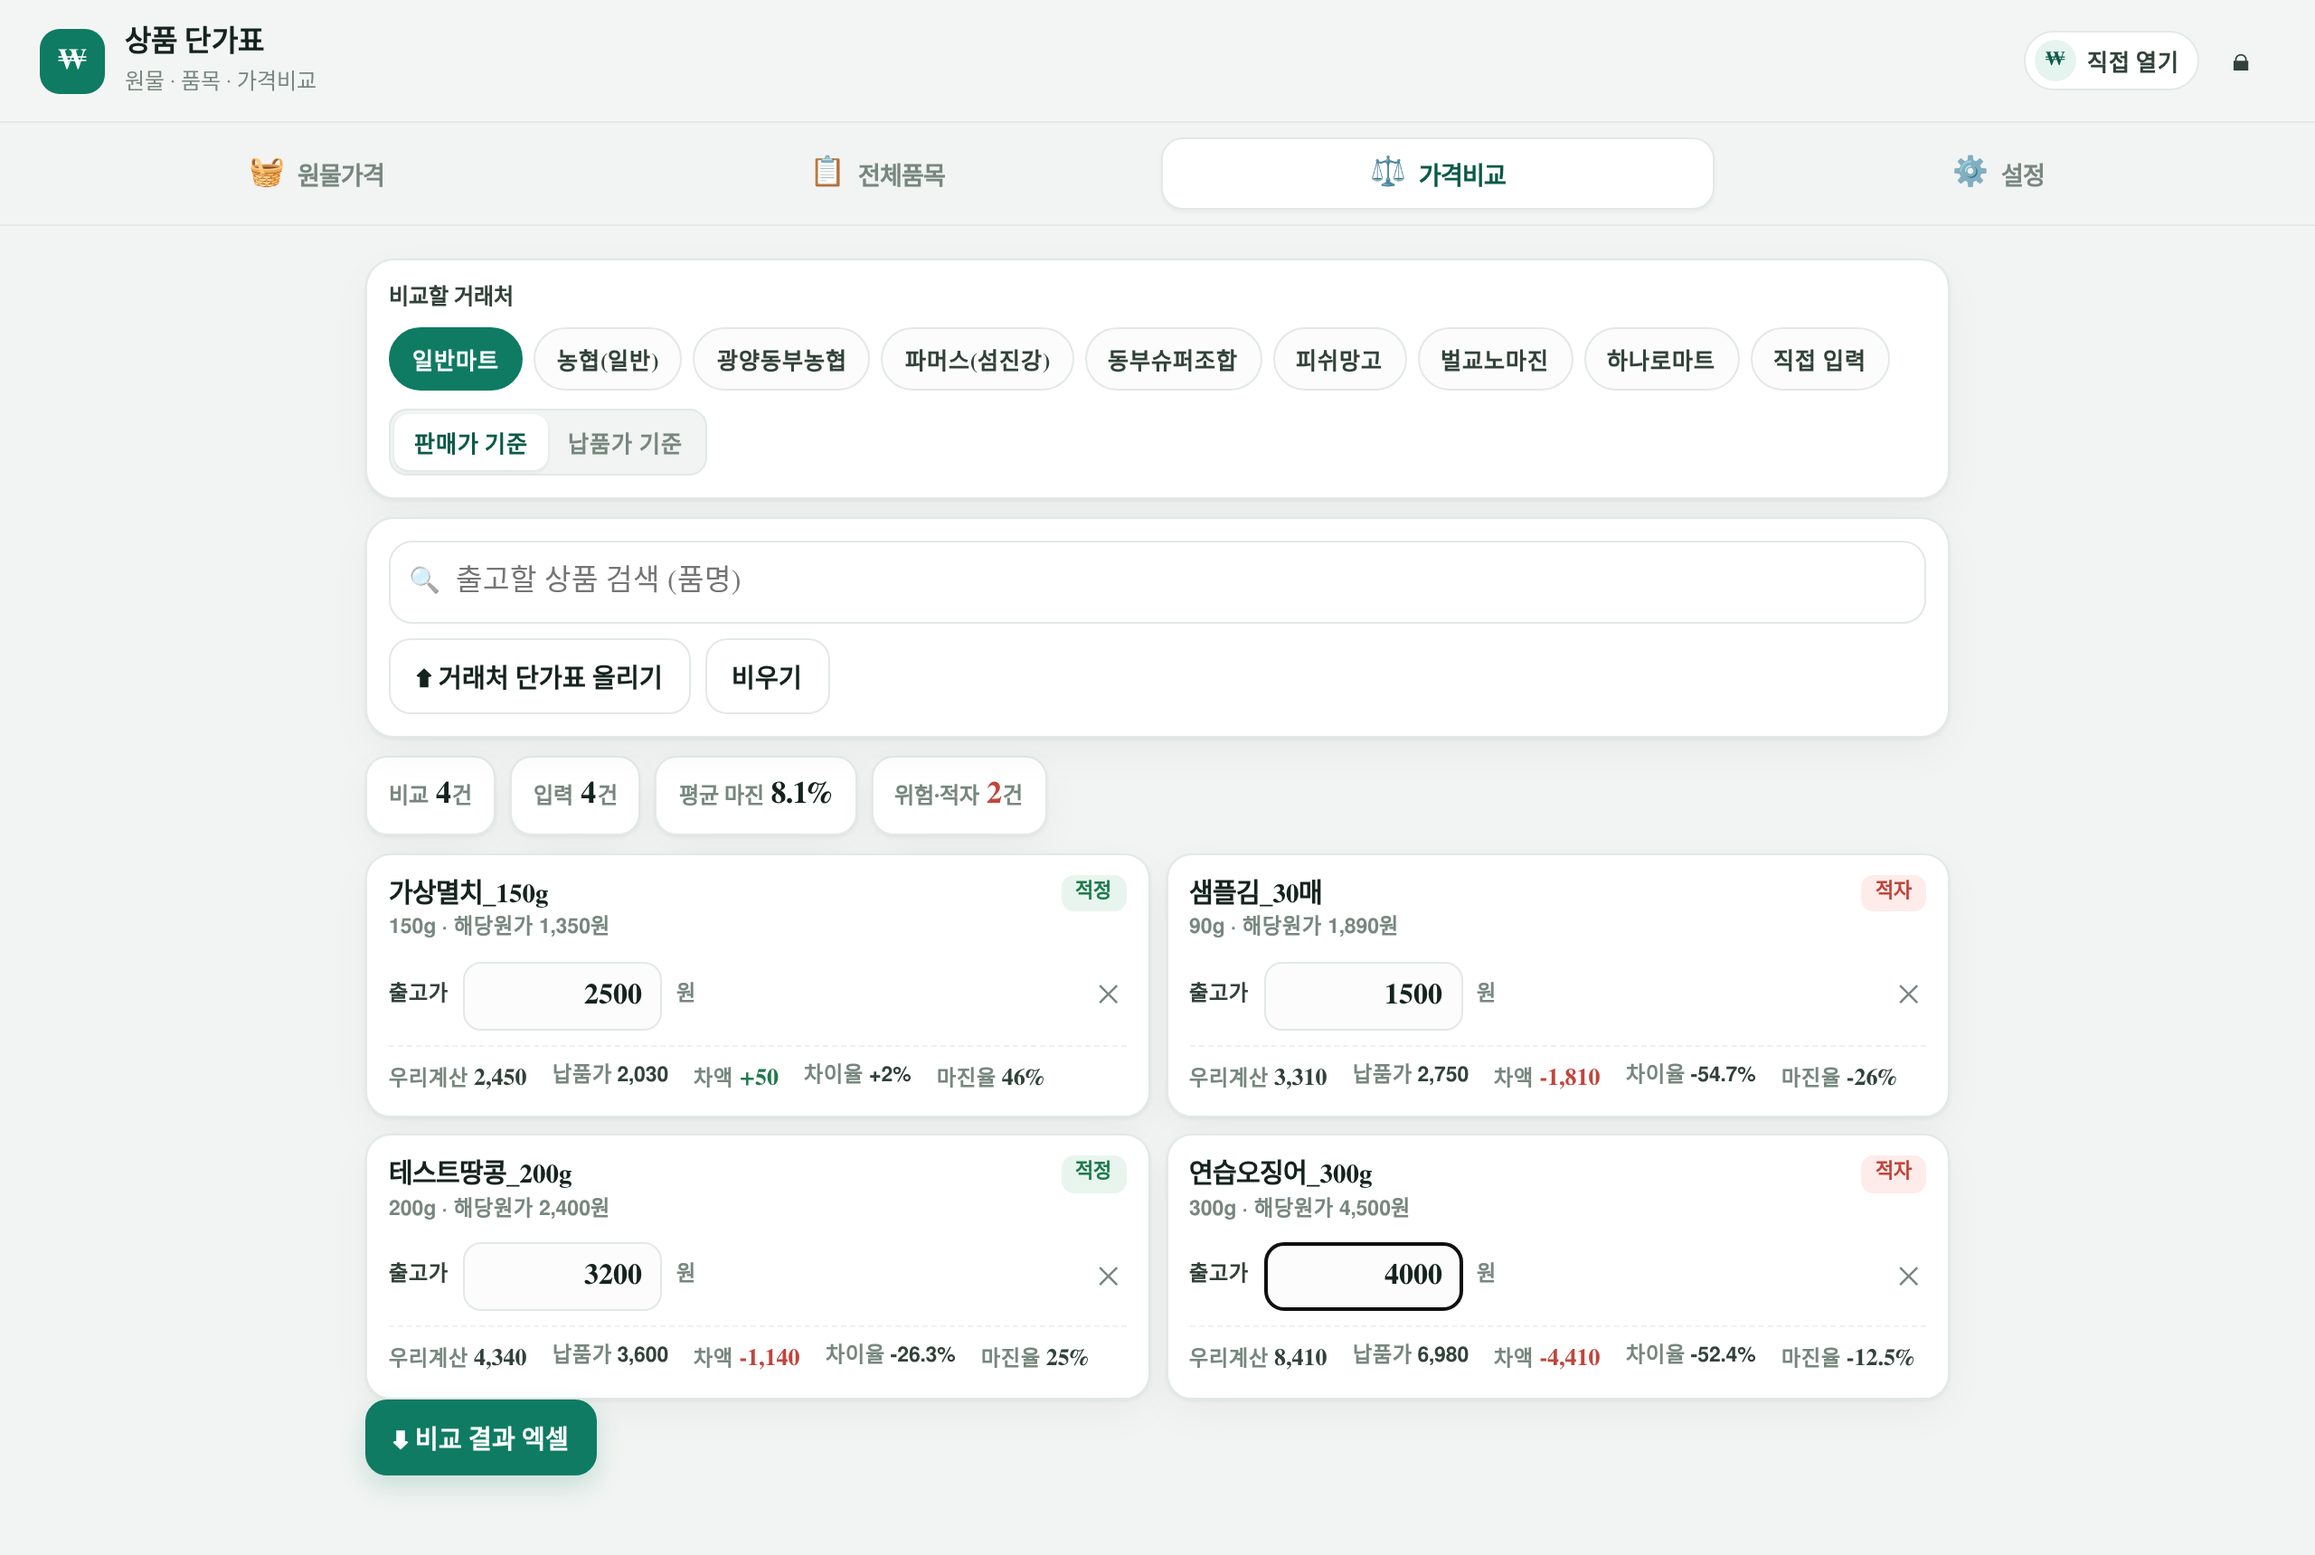
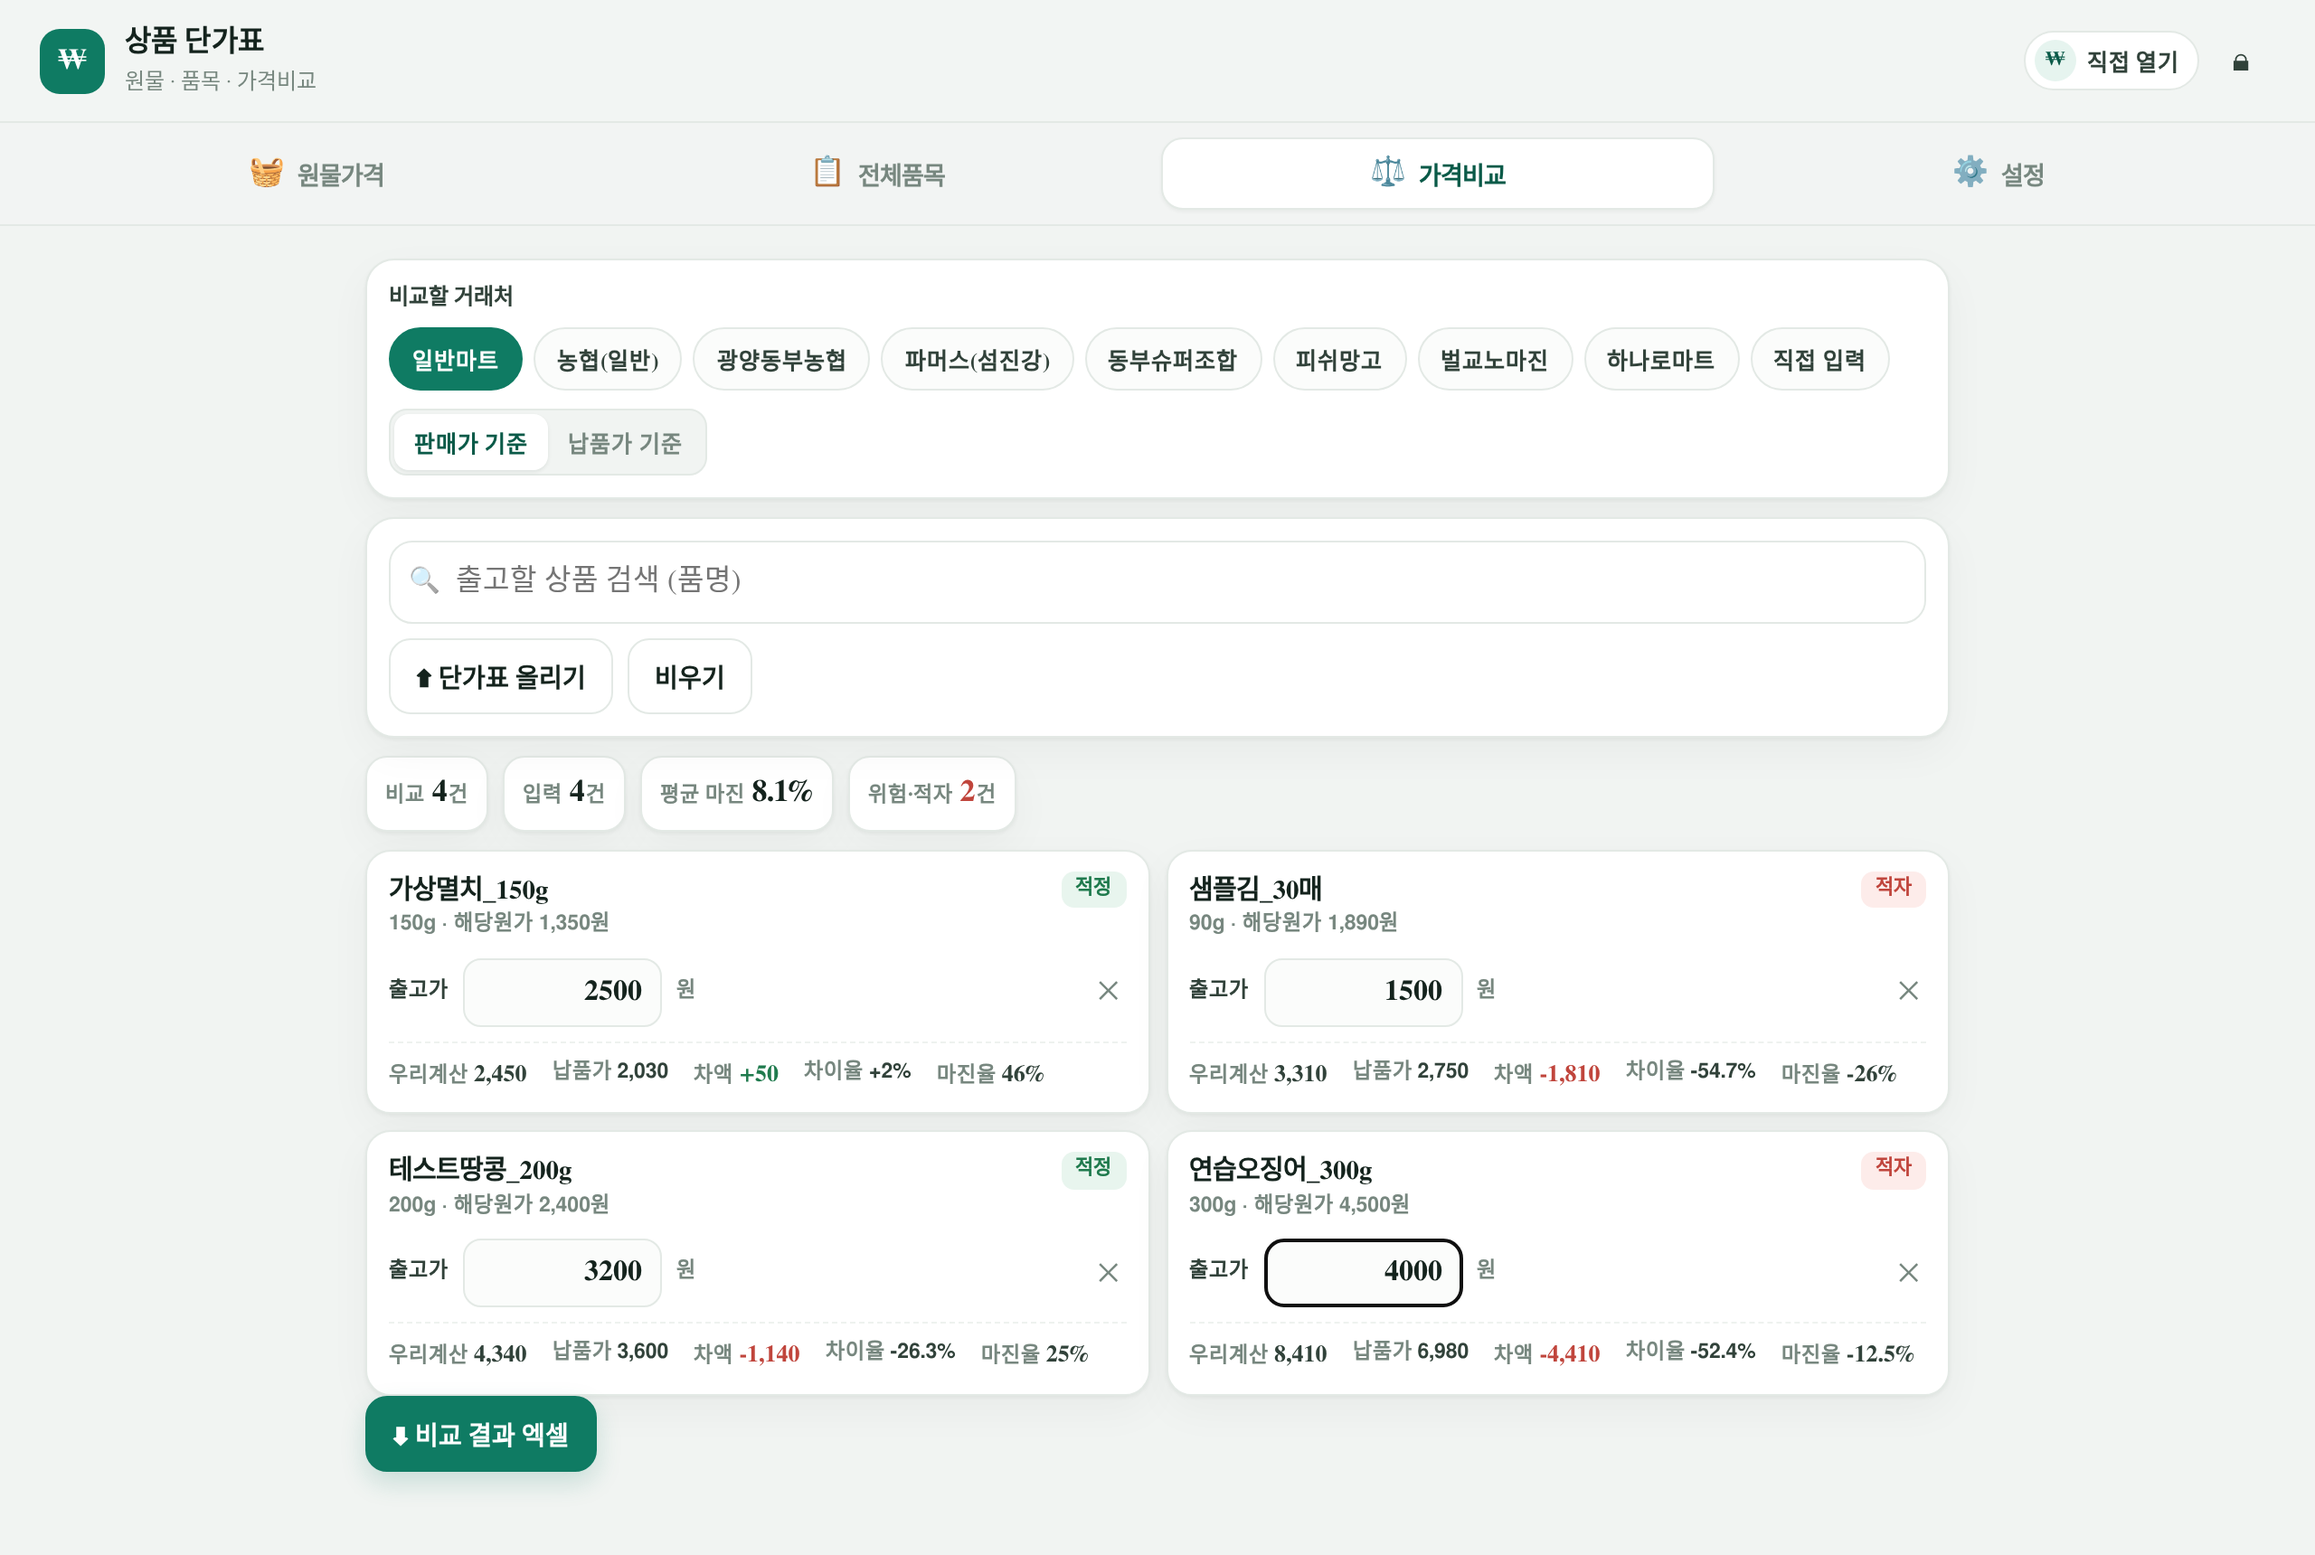
상품단가 앱: 올린 엑셀 단가표 기기 저장·되돌리기, 입력 개선, 스크린샷

diff --git a/price-manager/app.js b/price-manager/app.js
@@ -6,7 +6,7 @@
   var calc = C.calc, calcHana = C.calcHana;
 
   var DATA_URL = 'data.enc.json';
-  var K_META = 'pm.keymeta.v1', K_STATE = 'pm.state.v1';
+  var K_META = 'pm.keymeta.v1', K_STATE = 'pm.state.v1', K_BASE = 'pm.base.v1';
 
   var CHCOLS = {
     kd:   { q: '납품가', r: '농협판매가', s: '광양동부농협' },
@@ -116,8 +116,9 @@
       });
     });
   }
-  function setDoc(payload) {
+  function setDoc(payload, isOrigin) {
     S.payload = payload;
+    if (isOrigin) S.origin = payload;
     S.base = payload.items || [];
     S.rowsBase = payload.chRows || {};
     S.hanaBase = payload.hana || [];
@@ -168,6 +169,19 @@
     if (el) el.textContent = t + ' · ' + new Date().toLocaleTimeString('ko-KR', { hour: '2-digit', minute: '2-digit' });
   }
   function persistLocal() { S.dirty = true; saveState(); }
+  /* 엑셀에서 새로 올린 단가표는 이 기기에 따로 잠가 둔다 */
+  function saveBase() {
+    if (!S.key || S.demo) return;
+    var payload = { v: 1, built: S.payload.built, chs: S.payload.chs, items: S.base, chRows: S.rowsBase, hana: S.hanaBase };
+    C.sealJSON(S.key, payload, true).then(function (box) {
+      if (!lsSet(K_BASE, box)) toast('이 기기 저장 공간이 부족해 다음에 열면 원래 단가표로 돌아갑니다', true);
+    }).catch(function () {});
+  }
+  function loadBase() {
+    var box = lsGet(K_BASE);
+    if (!box || !S.key) return Promise.resolve(null);
+    return C.unsealJSON(S.key, box).catch(function () { return null; });
+  }
 
   /* ═════════════ 계산 도우미 ═════════════ */
   function rowOf(o, ch) {
@@ -579,6 +593,8 @@
     $('#set-items').textContent = nfmt(S.items.length) + '개';
     $('#set-bases').textContent = nfmt(g.length) + '개';
     $('#set-built').textContent = (S.payload && S.payload.built) || '-';
+    $('#set-src').textContent = S.custom ? '올린 엑셀' : '암호화 단가표';
+    $('#set-baseoffwrap').hidden = !S.custom;
     var log = S.edits.log || [];
     $('#set-logcnt').textContent = log.length + '건';
     $('#set-log').innerHTML = log.slice(0, 12).map(function (l) {
@@ -742,6 +758,7 @@
         setDoc({ v: 1, built: new Date().toISOString().slice(0, 10), chs: [{ id: 'kd', label: '경덕(기본)' }], items: items, chRows: {}, hana: [] });
         S.edits = { it: {}, row: {}, add: [], del: {}, log: [] };
         S.rowsBase = {}; S.hanaBase = [];
+        S.custom = true; saveBase();
         persistLocal();
         renderMat(); renderAll(); renderCompare(); renderSet();
         toast(items.length + '개 품목으로 바꿨습니다');
@@ -807,6 +824,7 @@
             S.key = key;
             lsSet(K_META, { salt: header.salt, it: header.it });
             C.idbPut('dk', key);
+            saveState();
             toast('data.enc.json 을 내려받았습니다 · GitHub에 올리면 모든 기기에 적용됩니다');
           });
         });
@@ -854,14 +872,17 @@
     return fetchHeader().then(function (header) {
       return C.openBundle(header, pw).then(function (r) {
         S.header = header; S.key = r.key;
-        setDoc(r.payload);
+        setDoc(r.payload, true);
         if (keep) {
           C.idbPut('dk', r.key);
           lsSet(K_META, { salt: header.salt, it: header.it });
         }
         return C.sealJSON(r.key, r.payload, true).then(function (blob) {
           C.idbPut('payload', { built: header.built, blob: blob });
-        }).then(function () { return restoreState(r.key); });
+        }).then(function () { return loadBase(); }).then(function (b) {
+          if (b && b.items && b.items.length) { setDoc(b); S.custom = true; }
+          return restoreState(S.key);
+        });
       });
     });
   }
@@ -929,8 +950,11 @@
         if (header.salt !== meta.salt) return null;
         S.header = header;
         return loadPayload(header, key).then(function (payload) {
-          S.key = key; setDoc(payload);
-          return restoreState(key).then(showApp);
+          S.key = key; setDoc(payload, true);
+          return loadBase().then(function (b) {
+            if (b && b.items && b.items.length) { setDoc(b); S.custom = true; }
+            return restoreState(key);
+          }).then(showApp);
         });
       }).catch(function () { return null; });
     }).then(function (done) {
@@ -1112,6 +1136,17 @@
     $('#set-export').onclick = exportEnriched;
     $('#set-import').onclick = function () { pickFile('.xlsx,.xls,.csv', importMaster); };
     $('#set-encurl2').onclick = makeEncFile;
+    $('#set-baseoff').onclick = function () {
+      ask('원래 단가표로', '올린 엑셀 대신 처음 받은 암호화 단가표로 돌아갑니다.<br>이 기기에서 바꾼 단가 수정도 함께 지워집니다.', '되돌리기', true).then(function (ok) {
+        if (!ok) return;
+        lsDel(K_BASE); S.custom = false;
+        setDoc(S.origin || S.payload);
+        S.edits = { it: {}, row: {}, add: [], del: {}, log: [] };
+        rebuild(); persistLocal();
+        renderMat(); renderAll(); renderCompare(); renderSet();
+        toast('원래 단가표로 돌아갔습니다');
+      });
+    };
     $('#set-undo').onclick = undoLast;
     $('#set-lock').onclick = function () {
       ask('잠글까요?', '이 기기에 저장된 단가표 열쇠를 지웁니다.<br>다시 열려면 단가표 비밀번호가 필요합니다.', '잠그기', true)

diff --git a/price-manager/index.html b/price-manager/index.html
@@ -87,8 +87,8 @@
     </div>
     <div class="statline" id="all-stat"></div>
     <div class="rowbtn">
-      <button class="btn soft" id="all-export" type="button">⬇ 엑셀 내려받기</button>
-      <button class="btn soft" id="all-import" type="button">⬆ 엑셀 단가표 올리기</button>
+      <button class="btn soft" id="all-export" type="button">⬇ 엑셀 받기</button>
+      <button class="btn soft" id="all-import" type="button">⬆ 단가표 올리기</button>
     </div>
     <div class="tblhead" id="all-head"></div>
     <div class="plist" id="all-list"></div>
@@ -122,7 +122,7 @@
       </div>
       <div class="sug" id="cmp-sug" hidden></div>
       <div class="rowbtn">
-        <button class="btn soft" id="cmp-import" type="button">⬆ 거래처 단가표 올리기</button>
+        <button class="btn soft" id="cmp-import" type="button">⬆ 단가표 올리기</button>
         <button class="btn soft" id="cmp-clear" type="button">비우기</button>
       </div>
     </div>
@@ -141,10 +141,14 @@
       <div class="kv"><span>품목</span><b id="set-items">-</b></div>
       <div class="kv"><span>원물</span><b id="set-bases">-</b></div>
       <div class="kv"><span>불러온 날</span><b id="set-built">-</b></div>
+      <div class="kv"><span>자료</span><b id="set-src">암호화 단가표</b></div>
       <div class="kv"><span>저장</span><b id="set-save">-</b></div>
       <div class="rowbtn">
         <button class="btn soft" id="set-export" type="button">⬇ 전체 단가표 엑셀</button>
         <button class="btn soft" id="set-import" type="button">⬆ 새 단가표 엑셀 올리기</button>
+      </div>
+      <div class="rowbtn" id="set-baseoffwrap" hidden>
+        <button class="btn soft" id="set-baseoff" type="button">↺ 원래 암호화 단가표로 되돌리기</button>
       </div>
       <p class="note">엑셀은 이 기기에 저장된 <b>수정된 단가</b> 기준으로 만듭니다.</p>
     </div>

diff --git a/price-manager/style.css b/price-manager/style.css
@@ -155,7 +155,7 @@ main{max-width:920px;margin:0 auto;padding:12px 12px calc(24px + var(--safe-b))}
 .sug b{font-size:13.5px}
 .sug span{display:block;font-size:11.5px;color:var(--muted);font-weight:600}
 .sum{display:flex;gap:8px;flex-wrap:wrap;margin-bottom:10px}
-.sum div{background:#fff;border:1px solid var(--line);border-radius:12px;padding:8px 12px;font-size:12px;
+.sum div{background:#fff;border:1px solid var(--line);border-radius:12px;padding:7px 10px;font-size:11.5px;
   color:var(--muted);font-weight:700;box-shadow:var(--shadow);white-space:nowrap}
 .sum div b{display:inline-block;font-size:17px;color:var(--ink);letter-spacing:-.4px;margin:0 1px}
 .sum div.bad b{color:var(--danger)}
